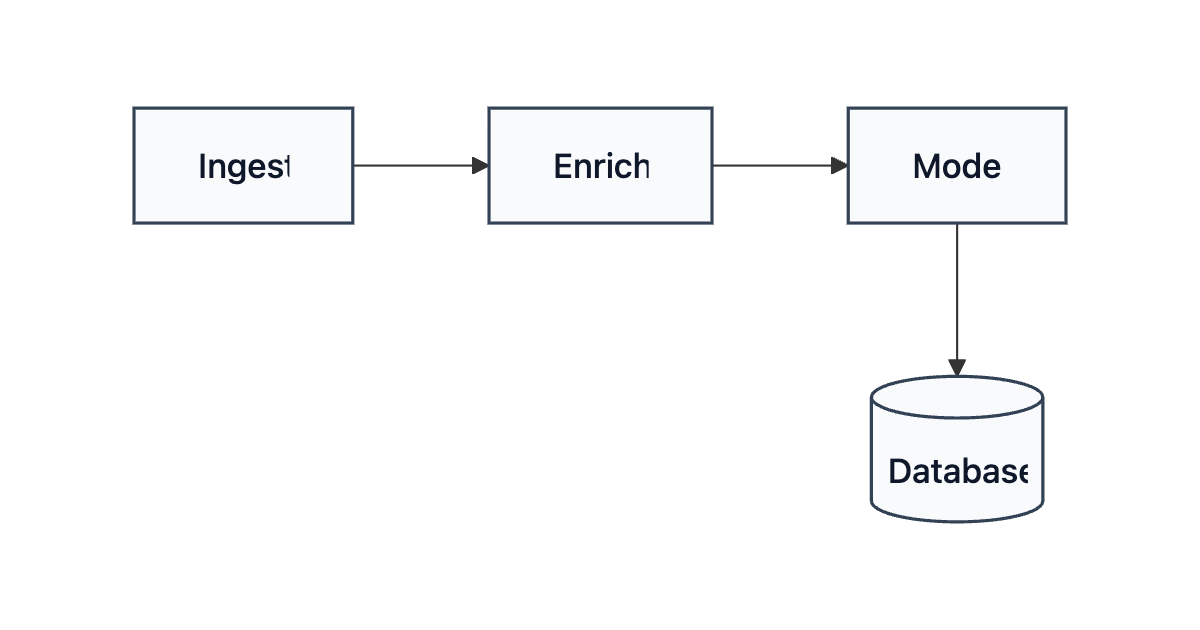
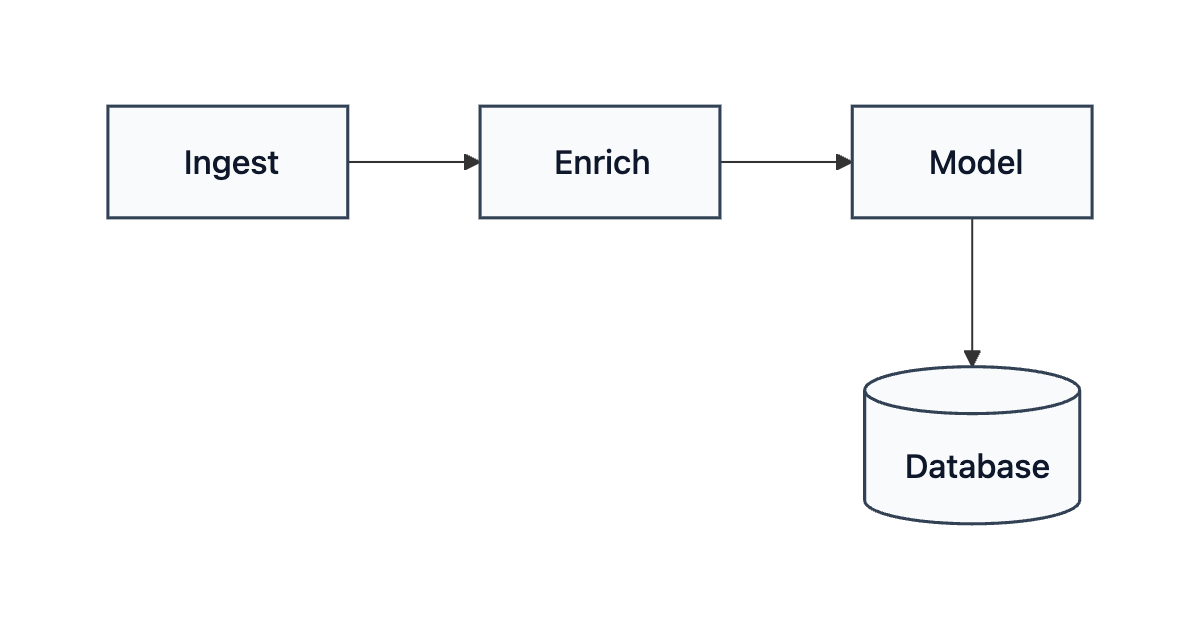
Expand prompt-led visual documentation

diff --git a/src/paint.ts b/src/paint.ts
@@ -205,6 +205,10 @@ export async function paint(
                   if (style.fontWeight !== undefined) labels.style("font-weight", style.fontWeight);
                   if (style.fontFamily !== undefined) labels.style("font-family", style.fontFamily);
                   if (style.fontSize !== undefined) labels.style("font-size", `${style.fontSize}px`);
+                  // Mermaid measures its foreignObject before Straightedge applies a theme.
+                  // A wider themed font must remain visible so diagnostics can measure the
+                  // actual label rather than silently clipping its final glyphs.
+                  element.selectAll(".label foreignObject").attr("overflow", "visible").style("overflow", "visible");
                 }
                 function fitShape(element: any, placed: any) {
                   const shape = element.select(".label-container");

diff --git a/README.md b/README.md
@@ -3,25 +3,83 @@
 **Tell your agent how the diagram should look.** Straightedge gives an AI agent deterministic,
 editable layout controls for Mermaid while keeping the Mermaid source ordinary and portable.
 
-| Mermaid baseline | After ordered layout, theme, and README frame |
+## Prompt → picture → persistent intent
+
+Start with ordinary Mermaid. There is no Straightedge metadata yet, so Mermaid chooses the default
+left-to-right layout.
+
+![Default Mermaid pipeline with four nodes in one left-to-right line](./docs/assets/pipeline-before.png)
+
+Tell the agent:
+
+> “Give the three processing stages equal-width boxes. Keep them in a row with 64 pixels between
+> them, then put Database 72 pixels below Model.”
+
+The source stays unchanged; the layout changes:
+
+![Pipeline after equal sizing, an ordered row, and relative database placement](./docs/assets/pipeline-layout.png)
+
+The new sidecar records semantic intent rather than generated coordinates:
+
+```diff
+- no pipeline.layout.json
++ {
++   "version": 3,
++   "ops": [
++     { "op": "equalize_size", "nodes": ["ingest", "enrich", "model"],
++       "dimension": "width", "value": 116 },
++     { "op": "resize_node", "node": "db", "width": 104, "height": 76 },
++     { "op": "row_nodes", "nodes": ["ingest", "enrich", "model"],
++       "gap": 64, "align": "center" },
++     { "op": "place_relative", "node": "db", "reference": "model",
++       "side": "below", "gap": 72 }
++   ]
++ }
+```
+
+Then tell the agent:
+
+> “Apply the executive-light theme and fit it to a wide README frame.”
+
+![The same pipeline after applying the executive-light theme and README-wide presentation frame](./docs/assets/pipeline-after.png)
+
+That prompt appends two operations; it does not flatten the earlier intent:
+
+```diff
+  "ops": [
+    ... layout operations above,
++   { "op": "apply_theme", "theme": "executive-light" },
++   { "op": "set_presentation",
++     "presentation": { "preset": "readme-wide", "minFontSize": 12 } }
+  ]
+```
+
+Shape-aware instructions use the same loop. For example:
+
+> “Make Review Gate about 10% smaller.”
+
+| Before resize | After shape-aware resize |
 |---|---|
-| ![Baseline Mermaid pipeline with four nodes in one default left-to-right line](./docs/assets/pipeline-before.png) | ![Straightedge pipeline with three ordered processing nodes, the database below Model, and a wide presentation frame](./docs/assets/pipeline-after.png) |
+| ![Draft, circular Review Gate, and Publish before resizing](./docs/assets/review-gate-before.png) | ![Draft, a ten-percent smaller circular Review Gate, and Publish after resizing](./docs/assets/review-gate-after.png) |
 
-The committed “after” example completed the `presentation` profile with no blocking problems. That
-is a scoped check result—not a claim that software can certify subjective design quality. Regenerate
-both images and the copied sidecar with `npm run docs:assets`; the exact source is
-[examples/pipeline.mmd](./examples/pipeline.mmd) and its operations are in
-[examples/pipeline.layout.json](./examples/pipeline.layout.json).
+The agent resolves “10% smaller” from inspected geometry and persists one deterministic operation.
+Both dimensions are equal, so the circle stays circular:
 
-> “Align box A and box B.”
->
-> “Add more space between Charlie and Foxtrot.”
->
-> “Put Ingest, Enrich, Model, and Database in that order.”
->
-> “Make circle Y about 10% smaller.”
+```diff
+  "ops": [
+    { "op": "set_presentation",
+      "presentation": { "width": 720, "height": 240, "padding": 24 } },
++   { "op": "resize_node", "node": "review_gate",
++     "width": 94.0921875, "height": 94.0921875 }
+  ]
+```
 
-Straightedge records those instructions next to the source:
+The smaller circle is valid but intentionally demonstrates honest diagnostics: the active checks
+flag its tighter label padding for review instead of claiming the result is aesthetically perfect.
+The pipeline presentation has no blocking problems. Regenerate every image and copied sidecar with
+`npm run docs:assets`; the exact inputs live in [examples](./examples/).
+
+Straightedge records visual instructions next to each source:
 
 ```text
 pipeline.mmd            Mermaid source; Straightedge reads it

diff --git a/docs/adr/0007-initial-oss-commit-readiness.md b/docs/adr/0007-initial-oss-commit-readiness.md
@@ -532,12 +532,18 @@ pack verification uses a temporary `npm_config_cache`; CI begins clean.
 
 ### 13.1 Visual proof
 
-The README starts with a committed before/after pair generated from a sanitized example:
+The README starts with a committed prompt-led sequence generated from sanitized examples. It shows
+the default render, semantic layout, styled presentation, and a shape-aware resize beside the exact
+metadata changes that produce each result:
 
 ```text
 docs/assets/pipeline-before.png
+docs/assets/pipeline-layout.png
 docs/assets/pipeline-after.png
 docs/assets/pipeline-after.layout.json
+docs/assets/review-gate-before.png
+docs/assets/review-gate-after.png
+docs/assets/review-gate-after.layout.json
 ```
 
 Requirements:
@@ -841,11 +847,11 @@ reviewable boundary.
 
 Local acceptance evidence on 2026-08-12:
 
-- `npm run test:all` covers type-checking, 34 unit/domain tests, 9 browser/CLI/MCP/editor E2E tests,
+- `npm run test:all` covers type-checking, 34 unit/domain tests, 10 browser/CLI/MCP/editor E2E tests,
   documentation verification, and an installed-tarball consumer smoke;
-- `npm run test:coverage` records a 66.56% line, 78.13% branch, and 70.33% function baseline across
+- `npm run test:coverage` records a 66.78% line, 78.13% branch, and 70.33% function baseline across
   the source modules without imposing an arbitrary release threshold;
-- isolated pack/install verification produces `straightedge-0.2.0-alpha.1.tgz` at 87,835
+- isolated pack/install verification produces `straightedge-0.2.0-alpha.1.tgz` at 88,527
   compressed bytes across 70 files, with executable CLI, declarations, README, and LICENSE;
 - the installed consumer runs version, doctor, render, check, ESM import, and TypeScript NodeNext
   declaration resolution without the source checkout or nested dependency layout;

diff --git a/CHANGELOG.md b/CHANGELOG.md
@@ -5,7 +5,9 @@ the public compatibility stage.
 
 ## Unreleased
 
-- No unreleased changes yet.
+- Expanded the README with prompt-led default/layout/presentation and shape-resize comparisons,
+  including the exact persistent metadata changes behind each image.
+- Prevented wider themed fonts from clipping final glyphs inside Mermaid's pre-theme label box.
 
 ## 0.2.0-alpha.1 — 2026-08-12
 
